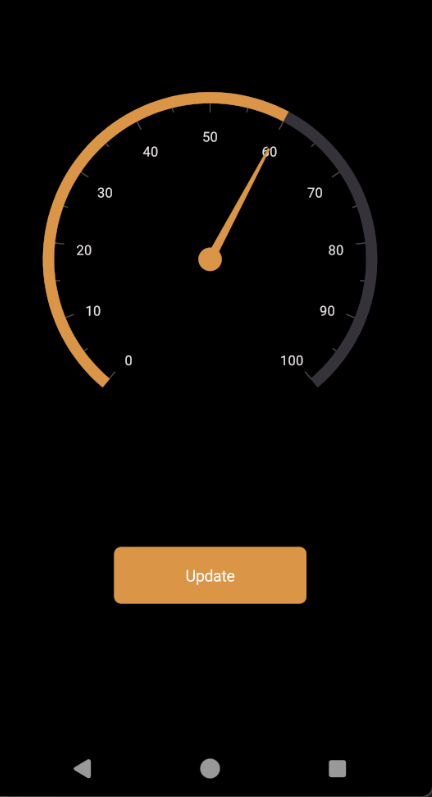
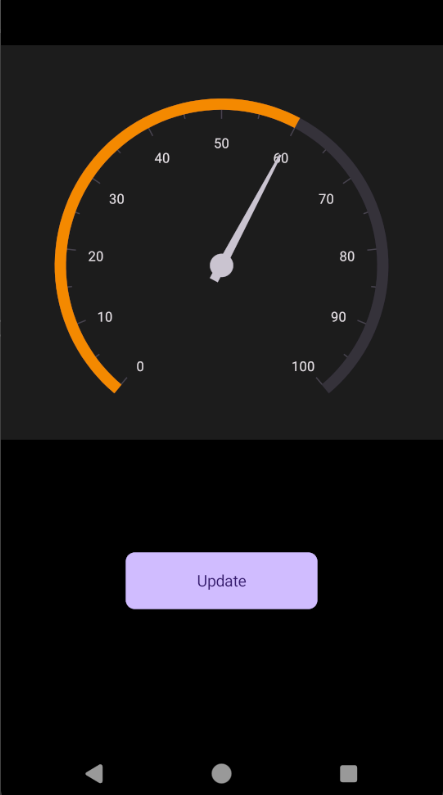
Addressed changes.

diff --git a/MAUI/Themes/Themes.md b/MAUI/Themes/Themes.md
@@ -17,7 +17,7 @@ Syncfusion themes allow you apply colors across all the Syncfusion controls with
 
 ## Applying light and dark themes
 
-By default, Syncfusion provides support for light and dark themes. As names suggest, these themes will have colors with light and dark color contrasts, respectively.
+By default, Syncfusion offers support for both light and dark themes through the inclusion of a Syncfusion Theme dictionary. As names suggest, these themes will have colors with light and dark color contrasts, respectively.
 
 To apply themes to your application, merge the following items:
 
@@ -25,10 +25,10 @@ To apply themes to your application, merge the following items:
 
 #### Theme resource dictionary
 
-This resource dictionary contains *keys* and their respective color codes for all the Syncfusion controls. Currently, the following two theme resource dictionaries are available:
+This resource dictionary includes keys and their corresponding color codes for all Syncfusion controls. Additionally, it contains the SfVisualTheme property where we can declare the following two theme color values:
 
-1. Light theme resource dictionary
-2. Dark theme resource dictionary
+1. LightDefault
+2. DarkDefault
 
 #### Automatic merging
 

diff --git a/MAUI/Themes/HowTo.md b/MAUI/Themes/HowTo.md
@@ -9,7 +9,8 @@ documentation: ug
 
 # Switching between light theme and dark theme
 
-To switch to light theme from dark theme, use the following code snippet.
+
+To switch between light and dark themes in Syncfusion Maui controls, refer to the following example code.
 
 {% highlight C# %} 
 void UpdateTheme(object sender, System.EventArgs e)
@@ -23,19 +24,15 @@ void UpdateTheme(object sender, System.EventArgs e)
             if (theme.SfVisualTheme is SfVisuals.DarkDefault)
             {
                 theme.SfVisualTheme = SfVisuals.LightDefault;
-                Application.Current.UserAppTheme = AppTheme.Light;
             }
             else
             {
                 theme.SfVisualTheme = SfVisuals.DarkDefault;
-                Application.Current.UserAppTheme = AppTheme.Dark;
             }
         }
      }
 }
 
 {% endhighlight %}
-
-Similarly, to switch to dark theme from light theme, remove the light theme resource, and add the dark theme resource dictionary.
 
 The complete Theme switch sample is available in `this` link.
